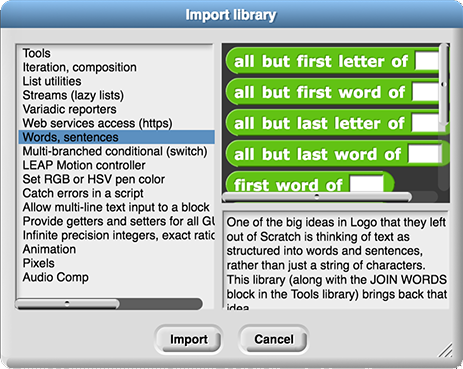
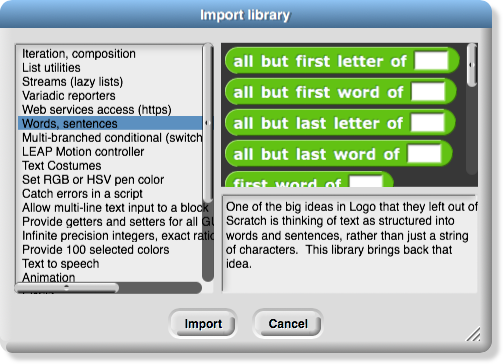
2.4 - fixes

diff --git a/cur/programming/2-complexity/4-making-computers-do-math/3-other-math-reporters.html b/cur/programming/2-complexity/4-making-computers-do-math/3-other-math-reporters.html
@@ -32,19 +32,18 @@
     
         <div class="forYouToDo">
             <ol start="3">
-                <div class="todo"><p>Mary, blocks should be red if they take block inputs, we need to remake these images with of list" in their titles and update the alt/title text. --MF, 8/28/19</p></div>
                 <li>
-                    Use <code>combine</code> to build <code>maximum of list</code> and <code>minimum of list</code>. <!--(If you don't have them already in your project from your work in Unit 2, you will need to build <img class="inline" src="/bjc-r/img/3-lists/maximum.png" alt="maximum of () and ()" title="maximum of () and ()" /> and <img class="inline" src="/bjc-r/img/3-lists/minimum.png" alt="minimum of () and ()" title="minimum of () and ()" />.)--><br />
-                    <img class="indent" src="/bjc-r/img/3-lists/max-of-list-reporting.png" alt="maximum of list {1, 22, 3, -4} reporting {22}" title="" />
-                    <img class="indent" src="/bjc-r/img/3-lists/min-of-list-reporting.png" alt="" title="" />
+                    Use <code>combine</code> to build <code>maximum of list</code> and <code>minimum of list</code>.<br />
+                    <img class="indent" src="/bjc-r/img/3-lists/max-of-list-reporting.png" alt="maximum of list {1, 22, 3, -4} reporting 22" title="maximum of list {1, 22, 3, -4} reporting 22" />
+                    <img class="indent" src="/bjc-r/img/3-lists/min-of-list-reporting.png" alt="minimum of list {1, 22, 3, -4} reporting -4" title="minimum of list {1, 22, 3, -4} reporting -4" />
                 </li>
                 <li>
                     Create a <code>sum of list</code> block that reports the sum of the items of a list.<br />
-                    <img class="indent" src="/bjc-r/img/3-lists/sum-of-list-reporting.png" alt="sum of {1, 2, 3, 10} reporting 16" title="sum of {1, 2, 3, 10} reporting 16" />
+                    <img class="indent" src="/bjc-r/img/3-lists/sum-of-list-reporting.png" alt="sum of list {1, 2, 3, 10} reporting 16" title="sum of list {1, 2, 3, 10} reporting 16" />
                 </li>
                 <li>
                     Create an <code>average of list</code> block that calculates the average of the items in a list:<br />
-                    <img class="indent" src="/bjc-r/img/3-lists/average-of-list-reporting.png" alt="average of {1, 2, 3, 4} reporting 2.5" title="average of {1, 2, 3, 4} reporting 2.5" />
+                    <img class="indent" src="/bjc-r/img/3-lists/average-of-list-reporting.png" alt="average of list {1, 2, 3, 4} reporting 2.5" title="average of list {1, 2, 3, 4} reporting 2.5" />
                     <div class="endnote">
                         <a href="#hint-average" data-toggle="collapse" title="Hint about average of list">Hint about <code>average of list</code></a>
                         <div id="hint-average" class="collapse"><p>First think: how do you calculate an average? Then think: what blocks could help you do that in Snap<em>!</em>?</p></div>

diff --git a/cur/programming/2-complexity/4-making-computers-do-math/2-math-predicates.html b/cur/programming/2-complexity/4-making-computers-do-math/2-math-predicates.html
@@ -14,12 +14,12 @@
         <div class="todo">Need to fix SUCH THAT in all images of KEEP and all corresponding alt/text. But only if we keep KEEP the way it is now (without such that). --MF, 8/12/19</div>
         
         <div class="learn"><strong>In this project</strong>, you will create a <em>library</em> (a collection) of math tools building on the blocks you built in <a href="/bjc-r/cur/programming/2-complexity/3-predicates/1-what-is-predicate.html?topic=nyc_bjc%2F2-conditionals-abstraction.topic&course=bjc4nyc.html&novideo&noassignment" title="Lab 3 Page 1: What's a Predicate?">Lab 3 Page 1: What's a Predicate?</a>.</div>
+        
+        <div class="comment">AAP-2.M.3, AAP-3.D.3</div>
         <div class="vocabBig">
-            <div class="todo">AAP-3.D.1</div>
+            <div class="commentBig">AAP-3.D.1</div>
             <p>A <strong>software library</strong> is a collection of procedures that can be used in other programs.</p>
         </div>
-
-        <div class="todo">AAP-2.M.3, AAP-3.D.3</div>
         <p>Using <em>libraries</em> simplifies the development of new programs. Using procedures that you already know work correctly reduces the amount of time you need to spend coding, the number of possible bugs you can have, and how much of your project you need to test.</p>
 		                
         <div class="forYouToDo" id="first">
@@ -42,7 +42,6 @@
                         </ol>
                     </div>
                 </li>
-                <div class="todo">TG: See the "Block Libraries" section on the bottom of page 29 in the <a href="https://snap.berkeley.edu/snapsource/help/SnapManual.pdf#page=29" target="_blank" title="Snap! Reference Manual">Snap<em>!</em> Reference Manual</a> for more information about exporting and importing.</div>
                 <li>
                     Import these blocks into your U2L4-MathLibrary project, test them and resolve any issues, and save.
                     <div class="narrower">
@@ -157,7 +156,6 @@
     
         <div class="endnote">
             Snap<em>!</em> has libraries for many things, such as one for accessing different parts of words and sentences...<br />
-            <div class="todo">This image of the libraries list is out of date. Needs an update. --MF, 8/6/19</div>
             <img class="indent" src="/bjc-r/img/6-computers/libraries-1.png" alt="Snap! File menu opened with cursor over 'Libraries'" title="Snap! File menu opened with cursor over 'Libraries'" />
             <img class="indent" src="/bjc-r/img/6-computers/libraries-words.png" alt="Snap! 'Import library' dialog box highlighting 'Words, sentences' library" title="Snap! 'Import library' dialog box highlighting 'Words, sentences' library" />
         </div>
